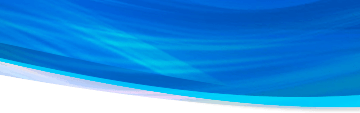
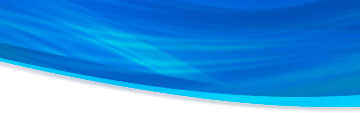
Correção no BG do header no mobile; corrido BG no Desktop; inserido links nos serviços na Home; removido espaçamento a mais ao final das páginas, antes do footer; corrigido link para os telefones

diff --git a/client/src/pages/Home.js b/client/src/pages/Home.js
@@ -4,6 +4,7 @@ import Grid from "@material-ui/core/Grid";
 import Helmet from "react-helmet"
 import Page from '../components/Page';
 import HomeStyled from "../styles/pages/home.js";
+import { NavHashLink as NavLink } from 'react-router-hash-link';
 
 class Home extends Component {
   state = {
@@ -37,28 +38,28 @@ class Home extends Component {
           <Grid className="section" component="section" container justify="center">
             <Grid item className="container">
               <div className="highlights">
-                <article className="highlights__card">
+                <NavLink className="highlights__card" to='/servicos#instalacao-equipamentos'>
                   <img className="img-fluid" src="img/home/instalacao-completa.jpg" alt="Instalação Completa de Ar Condicionado" />
                   <div className="highlights__card--text">
                     <div className="title">Instalação & Infraestrutura</div>
                     <div className="description">Da execução do projeto até o start up dos equipamentos</div>
                   </div>
-                </article>
-                <article className="highlights__card">
+                </NavLink>
+                <NavLink className="highlights__card" to='/servicos#manutencao-preventiva'>
                   <img className="img-fluid" src="img/home/manutencao.jpg" alt="Manutenção" />
                   <div className="highlights__card--text">
                     <div className="title">Preventiva<br />& Reparos</div>
                     <div className="description">Assistência Técnica Completa</div>
                   </div>
-                </article>
-                <article className="highlights__card">
+                </NavLink>
+                <NavLink className="highlights__card" to='/gases-industriais#gases-industriais'>
                   <img className="img-fluid" src="img/home/gases-industriais.jpg" alt="Gases Industriais" />
                   <div className="highlights__card--text">
                     <div className="description">Fornecimento de Gases Industriais<br />
                       Locação de cilindros<br />
                       Acessórios para Solda</div>
                   </div>
-                </article>
+                </NavLink>
               </div>
             </Grid>
           </Grid>
@@ -74,30 +75,30 @@ class Home extends Component {
                 <h2 className="subtitle has-line"><span>Serviços</span></h2>
 
                 <div className="servicos__items">
-                  <div className="servicos__item">
+                  <NavLink className="servicos__item" to="/servicos#instalacao-equipamentos">
                     <figure className="img-fluid servicos__item--img instalacao" alt="Ícone de Instalação" />
                     <h3 className="title">Instalação</h3>
-                  </div>
+                  </NavLink>
 
-                  <div className="servicos__item">
+                  <NavLink className="servicos__item" to="/servicos#manutencao-preventiva">
                     <figure className="img-fluid servicos__item--img manutencao" alt="Ícone de Manutenção" />
                     <h3 className="title">Manutenção</h3>
-                  </div>
+                  </NavLink>
 
-                  <div className="servicos__item">
+                  <NavLink className="servicos__item" to="/servicos#manutencao-preventiva">
                     <figure className="img-fluid servicos__item--img preventiva" alt="Ícone de Preventiva" />
                     <h3 className="title">Preventiva</h3>
-                  </div>
+                  </NavLink>
 
-                  <div className="servicos__item">
+                  <NavLink className="servicos__item" to="/servicos#manutencao-corretiva">
                     <figure className="img-fluid servicos__item--img deteccao" alt="Ícone de Detecção" />
                     <h3 className="title">Detecção</h3>
-                  </div>
+                  </NavLink>
 
-                  <div className="servicos__item">
+                  <NavLink className="servicos__item" to="/gases-industriais#gases-industriais">
                     <figure className="img-fluid servicos__item--img fornecimento" alt="Ícone de Fornecimento" />
                     <h3 className="title">Fornecimento</h3>
-                  </div>
+                  </NavLink>
                 </div>
 
               </div>
@@ -140,28 +141,28 @@ class Home extends Component {
           <Grid className="section" component="section" container justify="center">
             <Grid item className="container">
               <div className="highlights">
-                <article className="highlights__card">
+                <NavLink className="highlights__card" to='/servicos#instalacao-equipamentos'>
                   <img className="img-fluid" src="img/home/instalacao-completa.jpg" alt="Instalação Completa de Ar Condicionado" />
                   <div className="highlights__card--text">
                     <div className="title">Instalação & Infraestrutura</div>
                     <div className="description">Da execução do projeto até o start up dos equipamentos</div>
                   </div>
-                </article>
-                <article className="highlights__card">
+                </NavLink>
+                <NavLink className="highlights__card" to='/servicos#manutencao-preventiva'>
                   <img className="img-fluid" src="img/home/manutencao.jpg" alt="Manutenção" />
                   <div className="highlights__card--text">
                     <div className="title">Preventiva<br />& Reparos</div>
                     <div className="description">Assistência Técnica Completa</div>
                   </div>
-                </article>
-                <article className="highlights__card">
+                </NavLink>
+                <NavLink className="highlights__card" to='/gases-industriais#gases-industriais'>
                   <img className="img-fluid" src="img/home/gases-industriais.jpg" alt="Gases Industriais" />
                   <div className="highlights__card--text">
                     <div className="description">Fornecimento de Gases Industriais<br />
                       Locação de cilindros<br />
                       Acessórios para Solda</div>
                   </div>
-                </article>
+                </NavLink>
               </div>
             </Grid>
           </Grid>
@@ -177,30 +178,30 @@ class Home extends Component {
                 <h2 className="subtitle has-line"><span>Serviços</span></h2>
 
                 <div className="servicos__items">
-                  <div className="servicos__item">
+                  <NavLink className="servicos__item" to="/servicos#instalacao-equipamentos">
                     <img className="img-fluid" src="img/home/instalacao-icon.png" alt="Ícone de Instalação" />
                     <h3 className="title">Instalação</h3>
-                  </div>
+                  </NavLink>
 
-                  <div className="servicos__item">
+                  <NavLink className="servicos__item" to="/servicos#manutencao-preventiva">
                     <img className="img-fluid" src="img/home/manutencao-icon.png" alt="Ícone de Manutenção" />
                     <h3 className="title">Manutenção</h3>
-                  </div>
+                  </NavLink>
 
-                  <div className="servicos__item">
+                  <NavLink className="servicos__item" to="/servicos#manutencao-preventiva">
                     <img className="img-fluid" src="img/home/preventiva-icon.png" alt="Ícone de Preventiva" />
                     <h3 className="title">Preventiva</h3>
-                  </div>
+                  </NavLink>
 
-                  <div className="servicos__item">
+                  <NavLink className="servicos__item" to="/servicos#manutencao-corretiva">
                     <img className="img-fluid" src="img/home/deteccao-icon.png" alt="Ícone de Detecção" />
                     <h3 className="title">Detecção</h3>
-                  </div>
+                  </NavLink>
 
-                  <div className="servicos__item">
+                  <NavLink className="servicos__item" to="/gases-industriais#gases-industriais">
                     <img className="img-fluid" src="img/home/fornecimento-icon.png" alt="Ícone de Fornecimento" />
                     <h3 className="title">Fornecimento</h3>
-                  </div>
+                  </NavLink>
                 </div>
 
               </div>

diff --git a/client/src/components/Footer.js b/client/src/components/Footer.js
@@ -58,7 +58,7 @@ class Footer extends Component {
           <Grid item className="footer__custom-column">
             <div className="freezing-contact align-top">
               <h2>Freezing Ar Condicionado</h2>
-              <a className="font-eras letter-spacing--1" href="tel:01144494607" target="_blank" rel="noopener noreferrer"><FontAwesomeIcon icon={faPhone} /> (11) 4449.4607</a>
+              <a className="font-eras letter-spacing--1" href="tel:01144494607" rel="noopener noreferrer"><FontAwesomeIcon icon={faPhone} /> (11) 4449.4607</a>
               <a href="mailto:freezing@freezing.com.br" target="_blank" rel="noopener noreferrer">freezing@freezing.com.br</a>
             </div>
           </Grid>
@@ -68,7 +68,7 @@ class Footer extends Component {
           <Grid item className="footer__custom-column">
             <div className="freezing-contact">
               <h2>Freezing Gases</h2>
-              <a className="font-eras letter-spacing--1" href="tel:01144494607" target="_blank" rel="noopener noreferrer"><FontAwesomeIcon icon={faPhone} /> (11) 4449.4607</a>
+              <a className="font-eras letter-spacing--1" href="tel:01144494607" rel="noopener noreferrer"><FontAwesomeIcon icon={faPhone} /> (11) 4449.4607</a>
               <a className="font-eras letter-spacing--1" href="https://api.whatsapp.com/send?phone=5511958966939" target="_blank" rel="noopener noreferrer"><FontAwesomeIcon icon={['fab', 'whatsapp']} /> (11) 95896-6939</a>
               <a href="mailto:freezing@freezing.com.br" target="_blank" rel="noopener noreferrer">freezing@freezing.com.br</a>
             </div>
@@ -115,7 +115,7 @@ class Footer extends Component {
 
           <div className="freezing-contact">
             <h2>Freezing Ar Condicionado</h2>
-            <a className="font-eras letter-spacing--1" href="tel:01144494607" target="_blank" rel="noopener noreferrer"><FontAwesomeIcon icon={faPhone} /> (11) 4449.4607</a>
+            <a className="font-eras letter-spacing--1" href="tel:01144494607" rel="noopener noreferrer"><FontAwesomeIcon icon={faPhone} /> (11) 4449.4607</a>
             <a href="mailto:freezing@freezing.com.br" target="_blank" rel="noopener noreferrer">freezing@freezing.com.br</a>
           </div>
 
@@ -123,7 +123,7 @@ class Footer extends Component {
 
           <div className="freezing-contact">
             <h2>Freezing Gases</h2>
-            <a className="font-eras letter-spacing--1" href="tel:01144494607" target="_blank" rel="noopener noreferrer"><FontAwesomeIcon icon={faPhone} /> (11) 4449.4607</a>
+            <a className="font-eras letter-spacing--1" href="tel:01144494607" rel="noopener noreferrer"><FontAwesomeIcon icon={faPhone} /> (11) 4449.4607</a>
             <a className="font-eras letter-spacing--1" href="https://api.whatsapp.com/send?phone=5511958966939" target="_blank" rel="noopener noreferrer"><FontAwesomeIcon icon={['fab', 'whatsapp']} /> (11) 95896-6939</a>
             <a href="mailto:freezing@freezing.com.br" target="_blank" rel="noopener noreferrer">freezing@freezing.com.br</a>
           </div>

diff --git a/client/src/pages/Servicos.js b/client/src/pages/Servicos.js
@@ -24,7 +24,7 @@ class Servicos extends Component {
             </Grid>
           </Grid>
         </Grid>
-        <Grid className="section instalacao-equipamentos" component="section" container justify="center">
+        <Grid id="instalacao-equipamentos" className="section instalacao-equipamentos" component="section" container justify="center">
           <Grid item container className="container" spacing={32}>
             <Grid item xs={12} sm={4}>
               <img className="img-fluid" src="img/servicos/instalacao-equipamentos.png" alt="Instalação de Equipamentos" />
@@ -50,7 +50,7 @@ class Servicos extends Component {
           </Grid>
         </Grid>
 
-        <Grid className="section manutencao-preventiva" component="section" container justify="center">
+        <Grid id="manutencao-preventiva" className="section manutencao-preventiva" component="section" container justify="center">
           <Grid item container className="container">
             <Grid item xs={12} sm={4}>
               <img className="img-fluid" src="img/servicos/manutencao-preventiva.png" alt="Manutenção Preventiva" />
@@ -77,7 +77,7 @@ class Servicos extends Component {
           </Grid>
         </Grid>
 
-        <Grid className="section manutencao-corretiva" component="section" container justify="center">
+        <Grid id="manutencao-corretiva" className="section manutencao-corretiva" component="section" container justify="center">
           <Grid item container className="container">
             <Grid item xs={12} sm={4}>
               <img className="img-fluid" src="img/servicos/manutencao-corretiva.png" alt="Manutenção Corretiva" />

diff --git a/client/src/pages/Contato.js b/client/src/pages/Contato.js
@@ -75,7 +75,7 @@ class Contato extends Component {
                   <img className="img-fluid" src="img/phone-icon.png" alt="Ícone de Telefone" />
                   <div className="content">
                     <h2 className="title min-height--52">Fale Conosco</h2>
-                    <a href="tel:01144494607" target="_blank" rel="noopener noreferrer">(11) 4449-4607</a>
+                    <a href="tel:01144494607" rel="noopener noreferrer">(11) 4449-4607</a>
                     <a href="mailto:freezing@freezing.com.br" target="_blank" rel="noopener noreferrer">freezing@freezing.com.br</a>
                   </div>
                 </div>
@@ -86,8 +86,8 @@ class Contato extends Component {
                   <img className="img-fluid" src="img/shopping-cart--icon.png" alt="Ícone de carrinho de compras" />
                   <div className="content">
                     <h2 className="title">Faça seu pedido<br />Freezing Gases</h2>
-                    <a href="tel:01144494607" target="_blank" rel="noopener noreferrer">(11)  4449-4607</a>
-                    <a href="tel:011958966939" target="_blank" rel="noopener noreferrer">(11) 95896-6939</a>
+                    <a href="tel:01144494607" rel="noopener noreferrer">(11)  4449-4607</a>
+                    <a href="tel:011958966939" rel="noopener noreferrer">(11) 95896-6939</a>
                     <a href="mailto:gases@freezing.com.br" target="_blank" rel="noopener noreferrer">gases@freezing.com.br</a>
                   </div>
                 </div>

diff --git a/client/src/components/Header.js b/client/src/components/Header.js
@@ -33,7 +33,7 @@ const styles = {
   },
 
   mainHeader: {
-    background: "url('img/bg-header-desktop.png') center top/auto no-repeat",
+    background: "url('img/bg-header-desktop.png') center top/cover no-repeat",
     display: "flex",
     flexGrow: 1,
     justifyContent: "center",
@@ -123,7 +123,7 @@ class Header extends Component {
                 <img className="img-fluid" src="img/logo.png" alt="Freezing Logo" />
               </div>
               <ul className="contact-list">
-                <li><a href="tel:01144494607" target="_blank" rel="noopener noreferrer">
+                <li><a href="tel:01144494607" rel="noopener noreferrer">
                   <FontAwesomeIcon icon={faPhone} /> (11)   4449-4607</a></li>
                 <li><a href="https://api.whatsapp.com/send?phone=5511958966939" target="_blank" rel="noopener noreferrer">
                   <FontAwesomeIcon icon={['fab', 'whatsapp']} /> (11) 95896-6939</a></li>
@@ -149,7 +149,7 @@ class Header extends Component {
             {renderMobileMenu}
 
             <ul className="contact-list">
-              <li><a href="tel:01144494607" target="_blank" rel="noopener noreferrer">
+              <li><a href="tel:01144494607" rel="noopener noreferrer">
                 <FontAwesomeIcon icon={faPhone} /> (11)   4449-4607</a></li>
               <li><a href="https://api.whatsapp.com/send?phone=5511958966939" target="_blank" rel="noopener noreferrer">
                 <FontAwesomeIcon icon={['fab', 'whatsapp']} /> (11) 95896-6939</a></li>

diff --git a/client/src/pages/GasesIndustriais.js b/client/src/pages/GasesIndustriais.js
@@ -16,7 +16,7 @@ class GasesIndustriais extends Component {
         </Helmet>
         <CssBaseline />
         <GasesIndustriaisStyled />
-        <Grid className="section" container justify="center" component="section">
+        <Grid id="gases-industriais" className="section" container justify="center" component="section">
           <Grid item container className="container" spacing={32}>
             <Grid item xs={12}>
               <PageTitle><span>Freezing Gases Industriais</span></PageTitle>
@@ -84,8 +84,8 @@ class GasesIndustriais extends Component {
                 <div className="content">
                   <h3 className="title">Faça seu pedido</h3>
                   <div className="text">
-                    <a href="tel:011958966939" target="_blank" rel="noopener noreferrer">(11) 95896-6939</a>
-                    <a href="tel:01144494607" target="_blank" rel="noopener noreferrer">(11) 4449-4607</a>
+                    <a href="tel:011958966939" rel="noopener noreferrer">(11) 95896-6939</a>
+                    <a href="tel:01144494607" rel="noopener noreferrer">(11) 4449-4607</a>
                   </div>
                   <div className="text">
                     <a href="mailto:gases@freezing.com.br" target="_blank" rel="noopener noreferrer">gases@freezing.com.br</a>

diff --git a/client/src/styles/base/index.js b/client/src/styles/base/index.js
@@ -41,7 +41,7 @@ const Base = createGlobalStyle`
   }
 
   .main {
-    min-height: 50vh;
+    min-height: 25vh;
   }
 
   .section {
@@ -201,14 +201,15 @@ const Base = createGlobalStyle`
   }
 
   .page {
-    min-height: 70vh;
     width: 100%;
     -webkit-overflow-scrolling: touch;
-    transition: opacity 1s ease-in-out;
+    transition: opacity .5s ease-in-out;
   }
 
   .page-enter {
+    min-height: 50vh;
     opacity: 0;
+    transition: opacity 1s ease-in-out 1s;
   }
 
   .page-enter-active {
@@ -216,11 +217,13 @@ const Base = createGlobalStyle`
   }
 
   .page-exit {
+    min-height: 50vh;
     opacity: 0;
   }
 
   .page--prev.page-enter {
     opacity: 0;
+    transition: opacity 1s ease-in-out 1s;
   }
 
   .page--prev.page-enter-active {
@@ -228,6 +231,7 @@ const Base = createGlobalStyle`
   }
 
   .page--prev.page-exit {
+    min-height: 50vh;
     opacity: 0;
   }
 `

diff --git a/client/src/pages/Acessorios.js b/client/src/pages/Acessorios.js
@@ -71,8 +71,8 @@ class Acessorios extends Component {
                         <div className="content">
                           <h3 className="title">Faça seu pedido</h3>
                           <div className="text">
-                            <a href="tel:011958966939" target="_blank" rel="noopener noreferrer">(11) 95896-6939</a>
-                            <a href="tel:01144494607" target="_blank" rel="noopener noreferrer">(11) 4449-4607</a>
+                            <a href="tel:011958966939" rel="noopener noreferrer">(11) 95896-6939</a>
+                            <a href="tel:01144494607" rel="noopener noreferrer">(11) 4449-4607</a>
                           </div>
                           <div className="text">
                             <a href="mailto:gases@freezing.com.br" target="_blank" rel="noopener noreferrer">gases@freezing.com.br</a>

diff --git a/client/src/styles/components/header.js b/client/src/styles/components/header.js
@@ -20,25 +20,25 @@ const HeaderStyled = createGlobalStyle`
       top: 60%;
     }
 
-    @media (min-width: 1280px) and (max-width: 1439px) {
-      left: 7%;
+    @media (min-width: 1280px) {
+      left: 0;
       top: 50%;
     }
 
-    @media (min-width: 1440px) and (max-width: 1679px) {
-      left: 7%;
-      top: 45%;
+    /* @media (min-width: 1440px) and (max-width: 1679px) {
+      left: 0;
+      top: 50%;
     }
 
     @media (min-width: 1680px) and (max-width: 1919px) {
-      left: 7%;
+      left: 0;
       top: 50%;
     }
 
     @media (min-width: 1920px) {
-      left: 7%;
+      left: 0;
       top: 50%;
-    }
+    } */
   }
 
   .contact-list {

diff --git a/index.js b/index.js
@@ -37,9 +37,9 @@ app.post('/api/form', (req, res) => {
     });
 
     let mailOptions = {
-      from: "test@testaccount.com",
-      to: "jayne73@ethereal.email",
-      replyTo: "test@testaccount.com",
+      from: req.body.email,
+      to: "freezing@freezing.com.br",
+      replyTo: req.body.email,
       subject: "Novo contato",
       text: req.body.texto,
       html: htmlEmail
